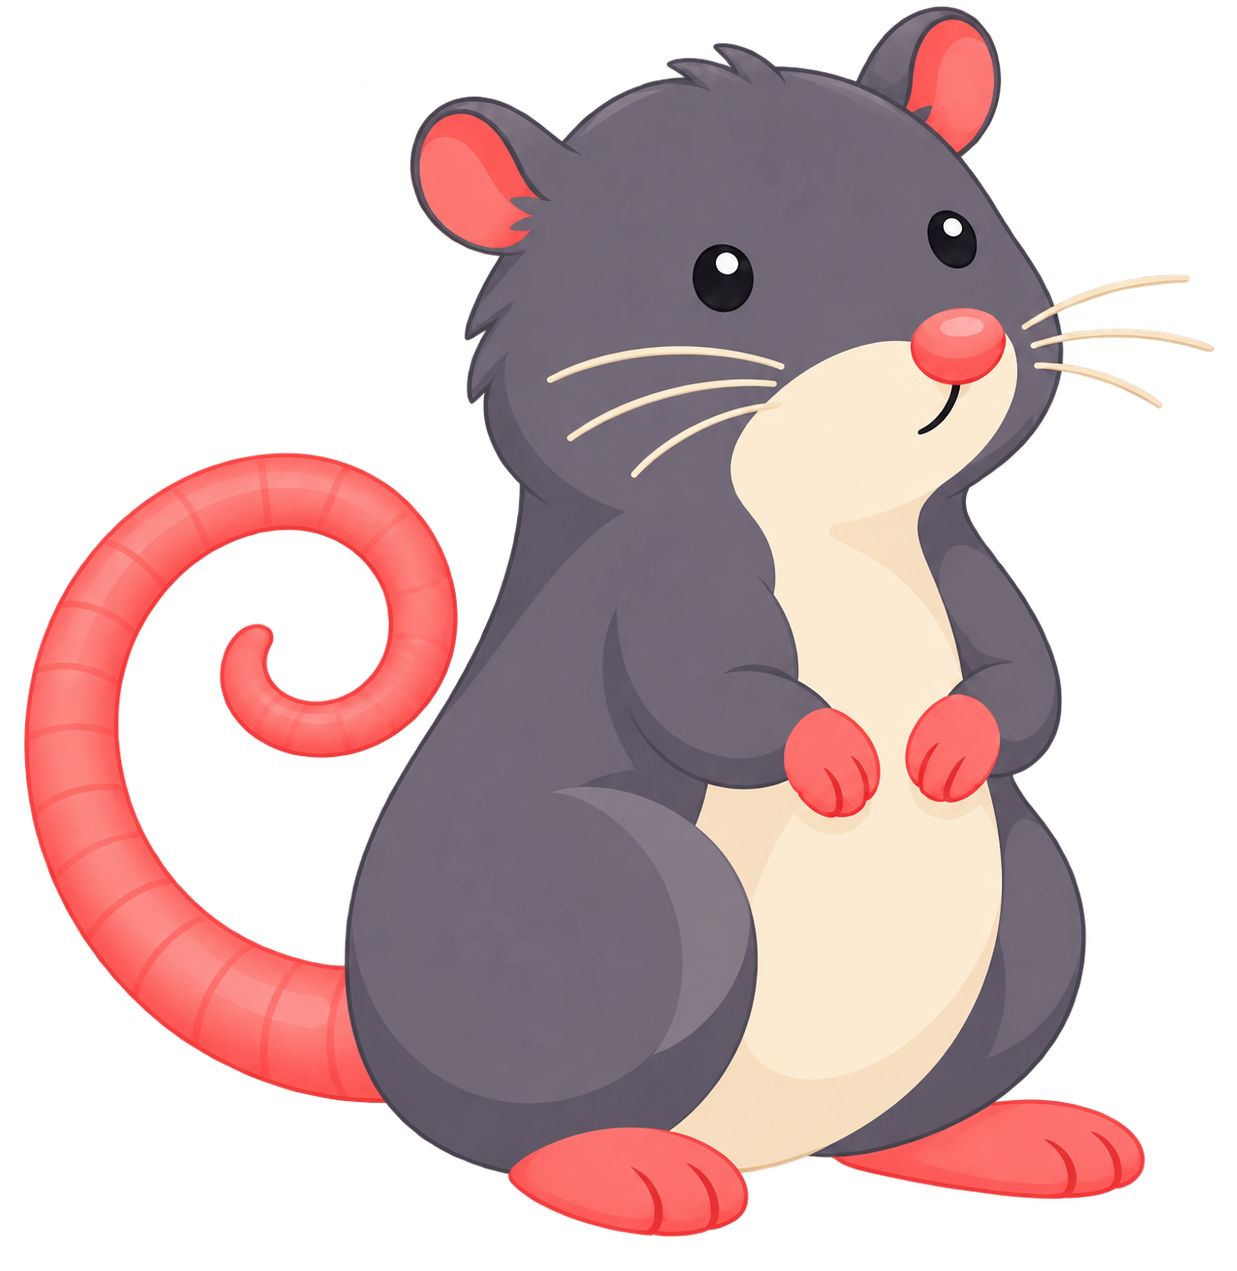
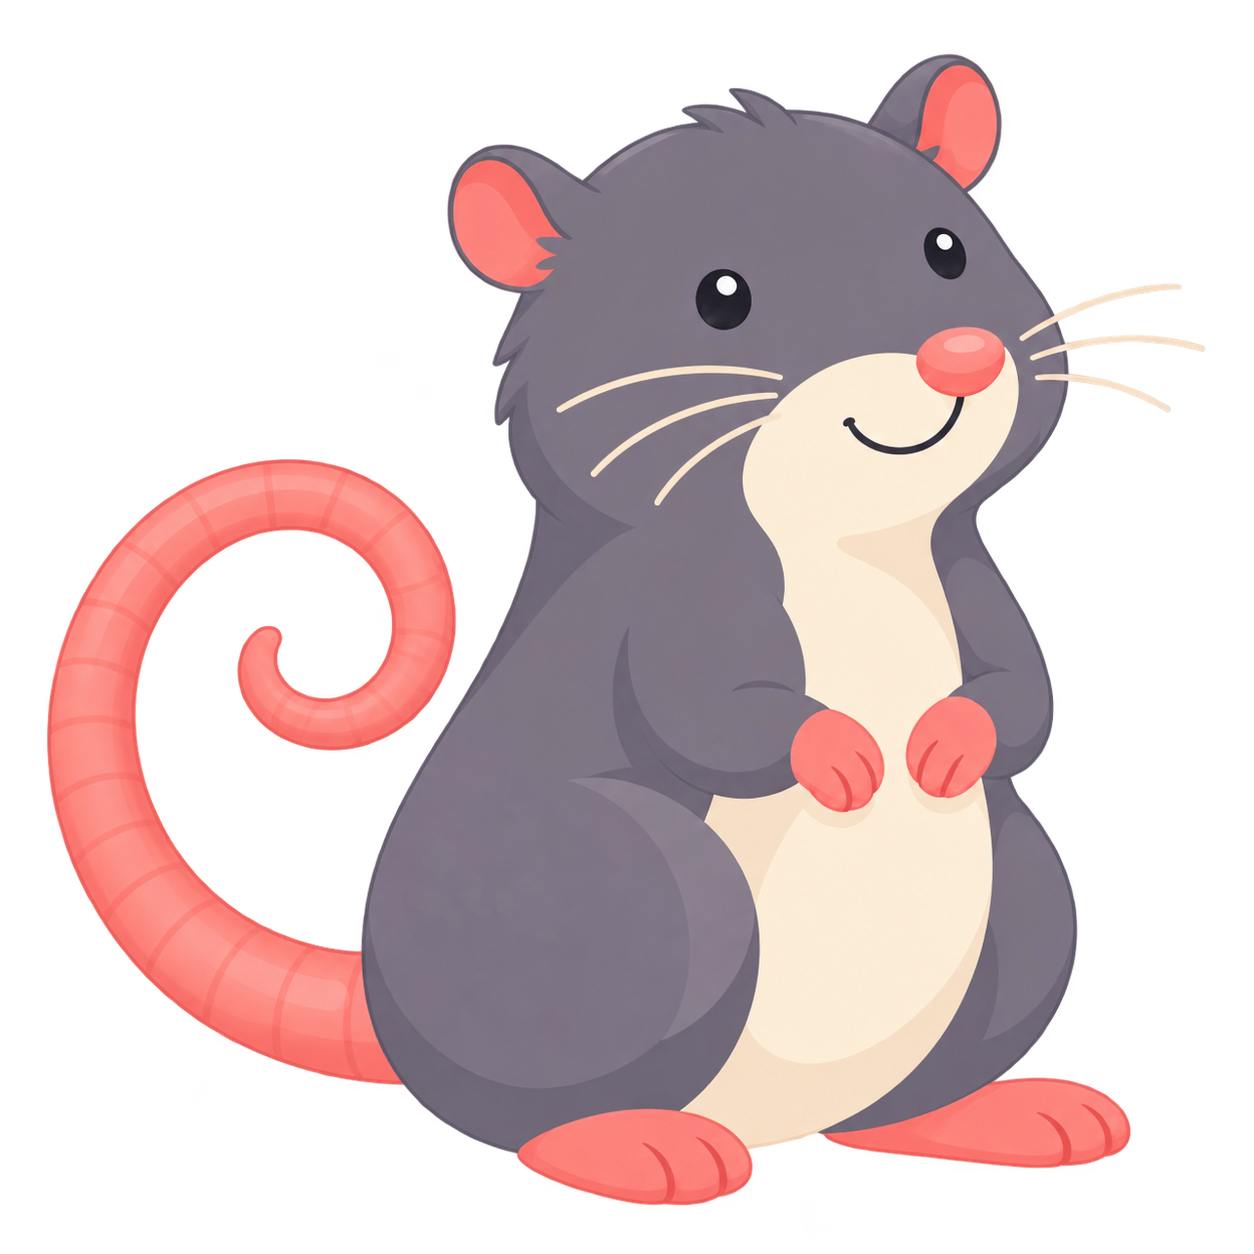
Frontend

Changed region(s): [[0.0, 0.0, 0.983, 0.9952], [0.5837, 0.6842, 0.6144, 0.8397], [0.3686, 0.9019, 0.4301, 0.933]]

diff --git a/src/features/dashboard/components/dashboard-page/dashboard-page.test.tsx b/src/features/dashboard/components/dashboard-page/dashboard-page.test.tsx
@@ -223,6 +223,68 @@ describe("DashboardPage API composition", () => {
     expect(api.getExpenses).toHaveBeenCalledTimes(2);
   });
 
+  it("deletes an expense and refreshes both dashboard resources", async () => {
+    const api = createApi();
+    const { user } = renderDashboard(api);
+    const expenses = within(
+      await screen.findByRole("region", { name: "Recent expenses" }),
+    );
+
+    await user.click(expenses.getByRole("button", { name: "Delete Lunch" }));
+
+    await waitFor(() =>
+      expect(api.deleteExpense).toHaveBeenCalledWith(
+        "20000000-0000-4000-8000-000000000001",
+      ),
+    );
+    await waitFor(() =>
+      expect(expenses.queryByText("Lunch")).not.toBeInTheDocument(),
+    );
+    expect(api.getCategories).toHaveBeenCalledTimes(2);
+    expect(api.getExpenses).toHaveBeenCalledTimes(2);
+  });
+
+  it("routes expense deletion failures through dashboard error feedback", async () => {
+    const api = createApi();
+    vi.mocked(api.deleteExpense).mockRejectedValueOnce(
+      new SessionApiError(
+        "service_unavailable",
+        "The service is temporarily unavailable.",
+      ),
+    );
+    const { user } = renderDashboard(api);
+    const expenses = within(
+      await screen.findByRole("region", { name: "Recent expenses" }),
+    );
+
+    await user.click(expenses.getByRole("button", { name: "Delete Lunch" }));
+
+    expect(await screen.findByRole("alert")).toHaveTextContent(
+      "The service is temporarily unavailable. Try again.",
+    );
+    expect(expenses.getByText("Lunch")).toBeVisible();
+    expect(api.getCategories).toHaveBeenCalledTimes(1);
+    expect(api.getExpenses).toHaveBeenCalledTimes(1);
+  });
+
+  it("starts a new session when expense deletion reports expiration", async () => {
+    const api = createApi();
+    vi.mocked(api.deleteExpense).mockRejectedValueOnce(
+      new SessionApiError(
+        "session_not_found",
+        "The anonymous session was not found.",
+      ),
+    );
+    const { user } = renderDashboard(api);
+    const expenses = within(
+      await screen.findByRole("region", { name: "Recent expenses" }),
+    );
+
+    await user.click(expenses.getByRole("button", { name: "Delete Lunch" }));
+
+    await waitFor(() => expect(api.createSession).toHaveBeenCalledTimes(2));
+  });
+
   it("bootstraps a new session when a read reports an expired session", async () => {
     const api = createApi();
     let finishBootstrap!: () => void;

diff --git a/src/features/expenses/components/expense-list/expense-list.test.tsx b/src/features/expenses/components/expense-list/expense-list.test.tsx
@@ -1,0 +1,67 @@
+import { screen } from "@testing-library/react";
+import { describe, expect, it, vi } from "vitest";
+import { I18nProvider } from "@/i18n/i18n-provider";
+import { renderWithProviders } from "@/test/render";
+import type { ExpenseListItemData } from "@/features/expenses/view-types";
+import { ExpenseList } from "./expense-list";
+
+const expense: ExpenseListItemData = {
+  id: "20000000-0000-4000-8000-000000000001",
+  description: "Lunch",
+  amountMinor: 1800,
+  categoryName: "Food",
+  color: "coral",
+};
+
+function renderList(
+  props: Partial<React.ComponentProps<typeof ExpenseList>> = {},
+) {
+  return renderWithProviders(
+    <I18nProvider>
+      <ExpenseList
+        expenses={[expense]}
+        onDeleteExpense={async () => undefined}
+        {...props}
+      />
+    </I18nProvider>,
+  );
+}
+
+describe("ExpenseList", () => {
+  it("renders a localized delete control and passes the expense ID", async () => {
+    const onDeleteExpense = vi.fn(async () => undefined);
+    const { user } = renderList({ onDeleteExpense });
+
+    await user.click(screen.getByRole("button", { name: "Delete Lunch" }));
+
+    expect(onDeleteExpense).toHaveBeenCalledWith(expense.id);
+  });
+
+  it("disables deletion while a dashboard mutation is active", () => {
+    renderList({ disabled: true });
+
+    expect(screen.getByRole("button", { name: "Delete Lunch" })).toBeDisabled();
+  });
+
+  it("localizes the delete control in Spanish", () => {
+    renderWithProviders(
+      <I18nProvider initialLocale="es">
+        <ExpenseList
+          expenses={[expense]}
+          onDeleteExpense={async () => undefined}
+        />
+      </I18nProvider>,
+    );
+
+    expect(
+      screen.getByRole("button", { name: "Eliminar Lunch" }),
+    ).toBeVisible();
+  });
+
+  it("keeps the existing empty-list state", () => {
+    renderList({ expenses: [] });
+
+    expect(screen.getByText("No expenses yet.")).toBeVisible();
+    expect(screen.queryByRole("button")).not.toBeInTheDocument();
+  });
+});

diff --git a/src/features/expenses/components/expense-list/expense-list-item.tsx b/src/features/expenses/components/expense-list/expense-list-item.tsx
@@ -1,14 +1,23 @@
 import type { ExpenseListItemData } from "@/features/expenses/view-types";
 import { categoryColorValues } from "@/features/categories/category-color";
 import { formatAmount } from "@/utils/format-amount";
+import { useLocale } from "@/i18n/locale-context";
 
 export type ExpenseListItemProps = Readonly<{
   expense: ExpenseListItemData;
+  onDeleteExpense: (expenseId: string) => Promise<void>;
+  disabled?: boolean;
 }>;
 
-export function ExpenseListItem({ expense }: ExpenseListItemProps) {
+export function ExpenseListItem({
+  expense,
+  onDeleteExpense,
+  disabled = false,
+}: ExpenseListItemProps) {
+  const { t } = useLocale();
+
   return (
-    <li className="grid grid-cols-[12px_minmax(0,1fr)_auto] items-center gap-x-[10px] gap-y-2 border-b border-[#49404f] py-[11px] last:border-b-0 max-[520px]:grid-cols-[12px_minmax(0,1fr)]">
+    <li className="grid grid-cols-[12px_minmax(0,1fr)_auto_auto] items-center gap-x-[10px] gap-y-2 border-b border-[#49404f] py-[11px] last:border-b-0 max-[520px]:grid-cols-[12px_minmax(0,1fr)_auto]">
       <span
         aria-hidden="true"
         className="size-[10px] rounded-full"
@@ -23,6 +32,15 @@ export function ExpenseListItem({ expense }: ExpenseListItemProps) {
       <span className="font-medium whitespace-nowrap tabular-nums max-[520px]:col-start-2">
         {formatAmount(expense.amountMinor)}
       </span>
+      <button
+        type="button"
+        disabled={disabled}
+        aria-label={t("deleteExpense", { description: expense.description })}
+        onClick={() => void onDeleteExpense(expense.id)}
+        className="size-7 cursor-pointer rounded-lg border border-[#49404f] bg-[#302a37] text-[#bbb1c1] outline-offset-2 hover:text-[#f7f2fa] focus-visible:outline-2 focus-visible:outline-[#86afe0] disabled:cursor-not-allowed disabled:opacity-60 disabled:hover:text-[#bbb1c1] max-[520px]:col-start-3"
+      >
+        <span aria-hidden="true">×</span>
+      </button>
     </li>
   );
 }

diff --git a/src/features/expenses/components/expense-list/expense-list.stories.tsx b/src/features/expenses/components/expense-list/expense-list.stories.tsx
@@ -1,4 +1,5 @@
 import type { Meta, StoryObj } from "@storybook/nextjs-vite";
+import { useState } from "react";
 import { dashboardFixtures } from "@/features/dashboard/fixtures/dashboard-view-fixtures";
 import { ExpenseList } from "./expense-list";
 
@@ -6,7 +7,10 @@ const meta = {
   title: "Components/ExpenseList",
   component: ExpenseList,
   parameters: { layout: "centered" },
-  args: { expenses: dashboardFixtures.success.expenses },
+  args: {
+    expenses: dashboardFixtures.success.expenses,
+    onDeleteExpense: async () => undefined,
+  },
 } satisfies Meta<typeof ExpenseList>;
 
 export default meta;
@@ -14,3 +18,20 @@ type Story = StoryObj<typeof meta>;
 
 export const Populated: Story = {};
 export const Empty: Story = { args: { expenses: [] } };
+export const Interactive: Story = {
+  render: function InteractiveExpenseList() {
+    const [expenses, setExpenses] = useState(
+      dashboardFixtures.success.expenses,
+    );
+    return (
+      <ExpenseList
+        expenses={expenses}
+        onDeleteExpense={async (expenseId) => {
+          setExpenses((current) =>
+            current.filter((expense) => expense.id !== expenseId),
+          );
+        }}
+      />
+    );
+  },
+};

diff --git a/src/features/expenses/components/expense-list/expense-list.tsx b/src/features/expenses/components/expense-list/expense-list.tsx
@@ -7,9 +7,15 @@ import { useLocale } from "@/i18n/locale-context";
 
 export type ExpenseListProps = Readonly<{
   expenses: ReadonlyArray<ExpenseListItemData>;
+  onDeleteExpense: (expenseId: string) => Promise<void>;
+  disabled?: boolean;
 }>;
 
-export function ExpenseList({ expenses }: ExpenseListProps) {
+export function ExpenseList({
+  expenses,
+  onDeleteExpense,
+  disabled = false,
+}: ExpenseListProps) {
   const titleId = useId();
   const { t } = useLocale();
 
@@ -26,7 +32,12 @@ export function ExpenseList({ expenses }: ExpenseListProps) {
       ) : null}
       <ul className="grid list-none gap-2 p-0">
         {expenses.map((expense) => (
-          <ExpenseListItem key={expense.id} expense={expense} />
+          <ExpenseListItem
+            key={expense.id}
+            expense={expense}
+            onDeleteExpense={onDeleteExpense}
+            disabled={disabled}
+          />
         ))}
       </ul>
     </section>

diff --git a/src/features/expenses/components/api-expense-list.tsx b/src/features/expenses/components/api-expense-list.tsx
@@ -18,6 +18,8 @@ export type ApiExpenseListProps = Readonly<{
   categories: ReadonlyArray<CategoryItemData>;
   refreshCounter: number;
   onSessionExpired: () => void;
+  onDeleteExpense: (expenseId: string) => Promise<void>;
+  disabled?: boolean;
 }>;
 
 export function ApiExpenseList({
@@ -25,6 +27,8 @@ export function ApiExpenseList({
   categories,
   refreshCounter,
   onSessionExpired,
+  onDeleteExpense,
+  disabled = false,
 }: ApiExpenseListProps) {
   const { t } = useLocale();
   const query = useExpenseQuery(api, refreshCounter);
@@ -65,5 +69,11 @@ export function ApiExpenseList({
     };
   });
 
-  return <ExpenseList expenses={expenses} />;
+  return (
+    <ExpenseList
+      expenses={expenses}
+      onDeleteExpense={onDeleteExpense}
+      disabled={disabled}
+    />
+  );
 }

diff --git a/src/features/dashboard/components/dashboard-page/dashboard-results.tsx b/src/features/dashboard/components/dashboard-page/dashboard-results.tsx
@@ -91,6 +91,13 @@ export function DashboardResults(props: Props) {
     }
     onOperationError(error);
   };
+  const handleExpenseDelete = async (expenseId: string) => {
+    try {
+      await mutate(() => api.deleteExpense(expenseId));
+    } catch (error) {
+      handleCategoryError(error);
+    }
+  };
 
   return (
     <div className="grid grid-cols-[250px_minmax(0,1fr)] items-start gap-[18px] max-[850px]:grid-cols-1">
@@ -114,6 +121,8 @@ export function DashboardResults(props: Props) {
             categories={categories}
             refreshCounter={refreshCounter}
             onSessionExpired={onSessionExpired}
+            onDeleteExpense={handleExpenseDelete}
+            disabled={isMutating}
           />
         </div>
       </div>

diff --git a/src/features/expenses/components/data-display.stories.tsx b/src/features/expenses/components/data-display.stories.tsx
@@ -50,6 +50,7 @@ export const ExpenseListItem: Story = {
             ...fixture.expenses[0],
             description: t("lunch"),
           }}
+          onDeleteExpense={async () => undefined}
         />
       </ul>
     );
